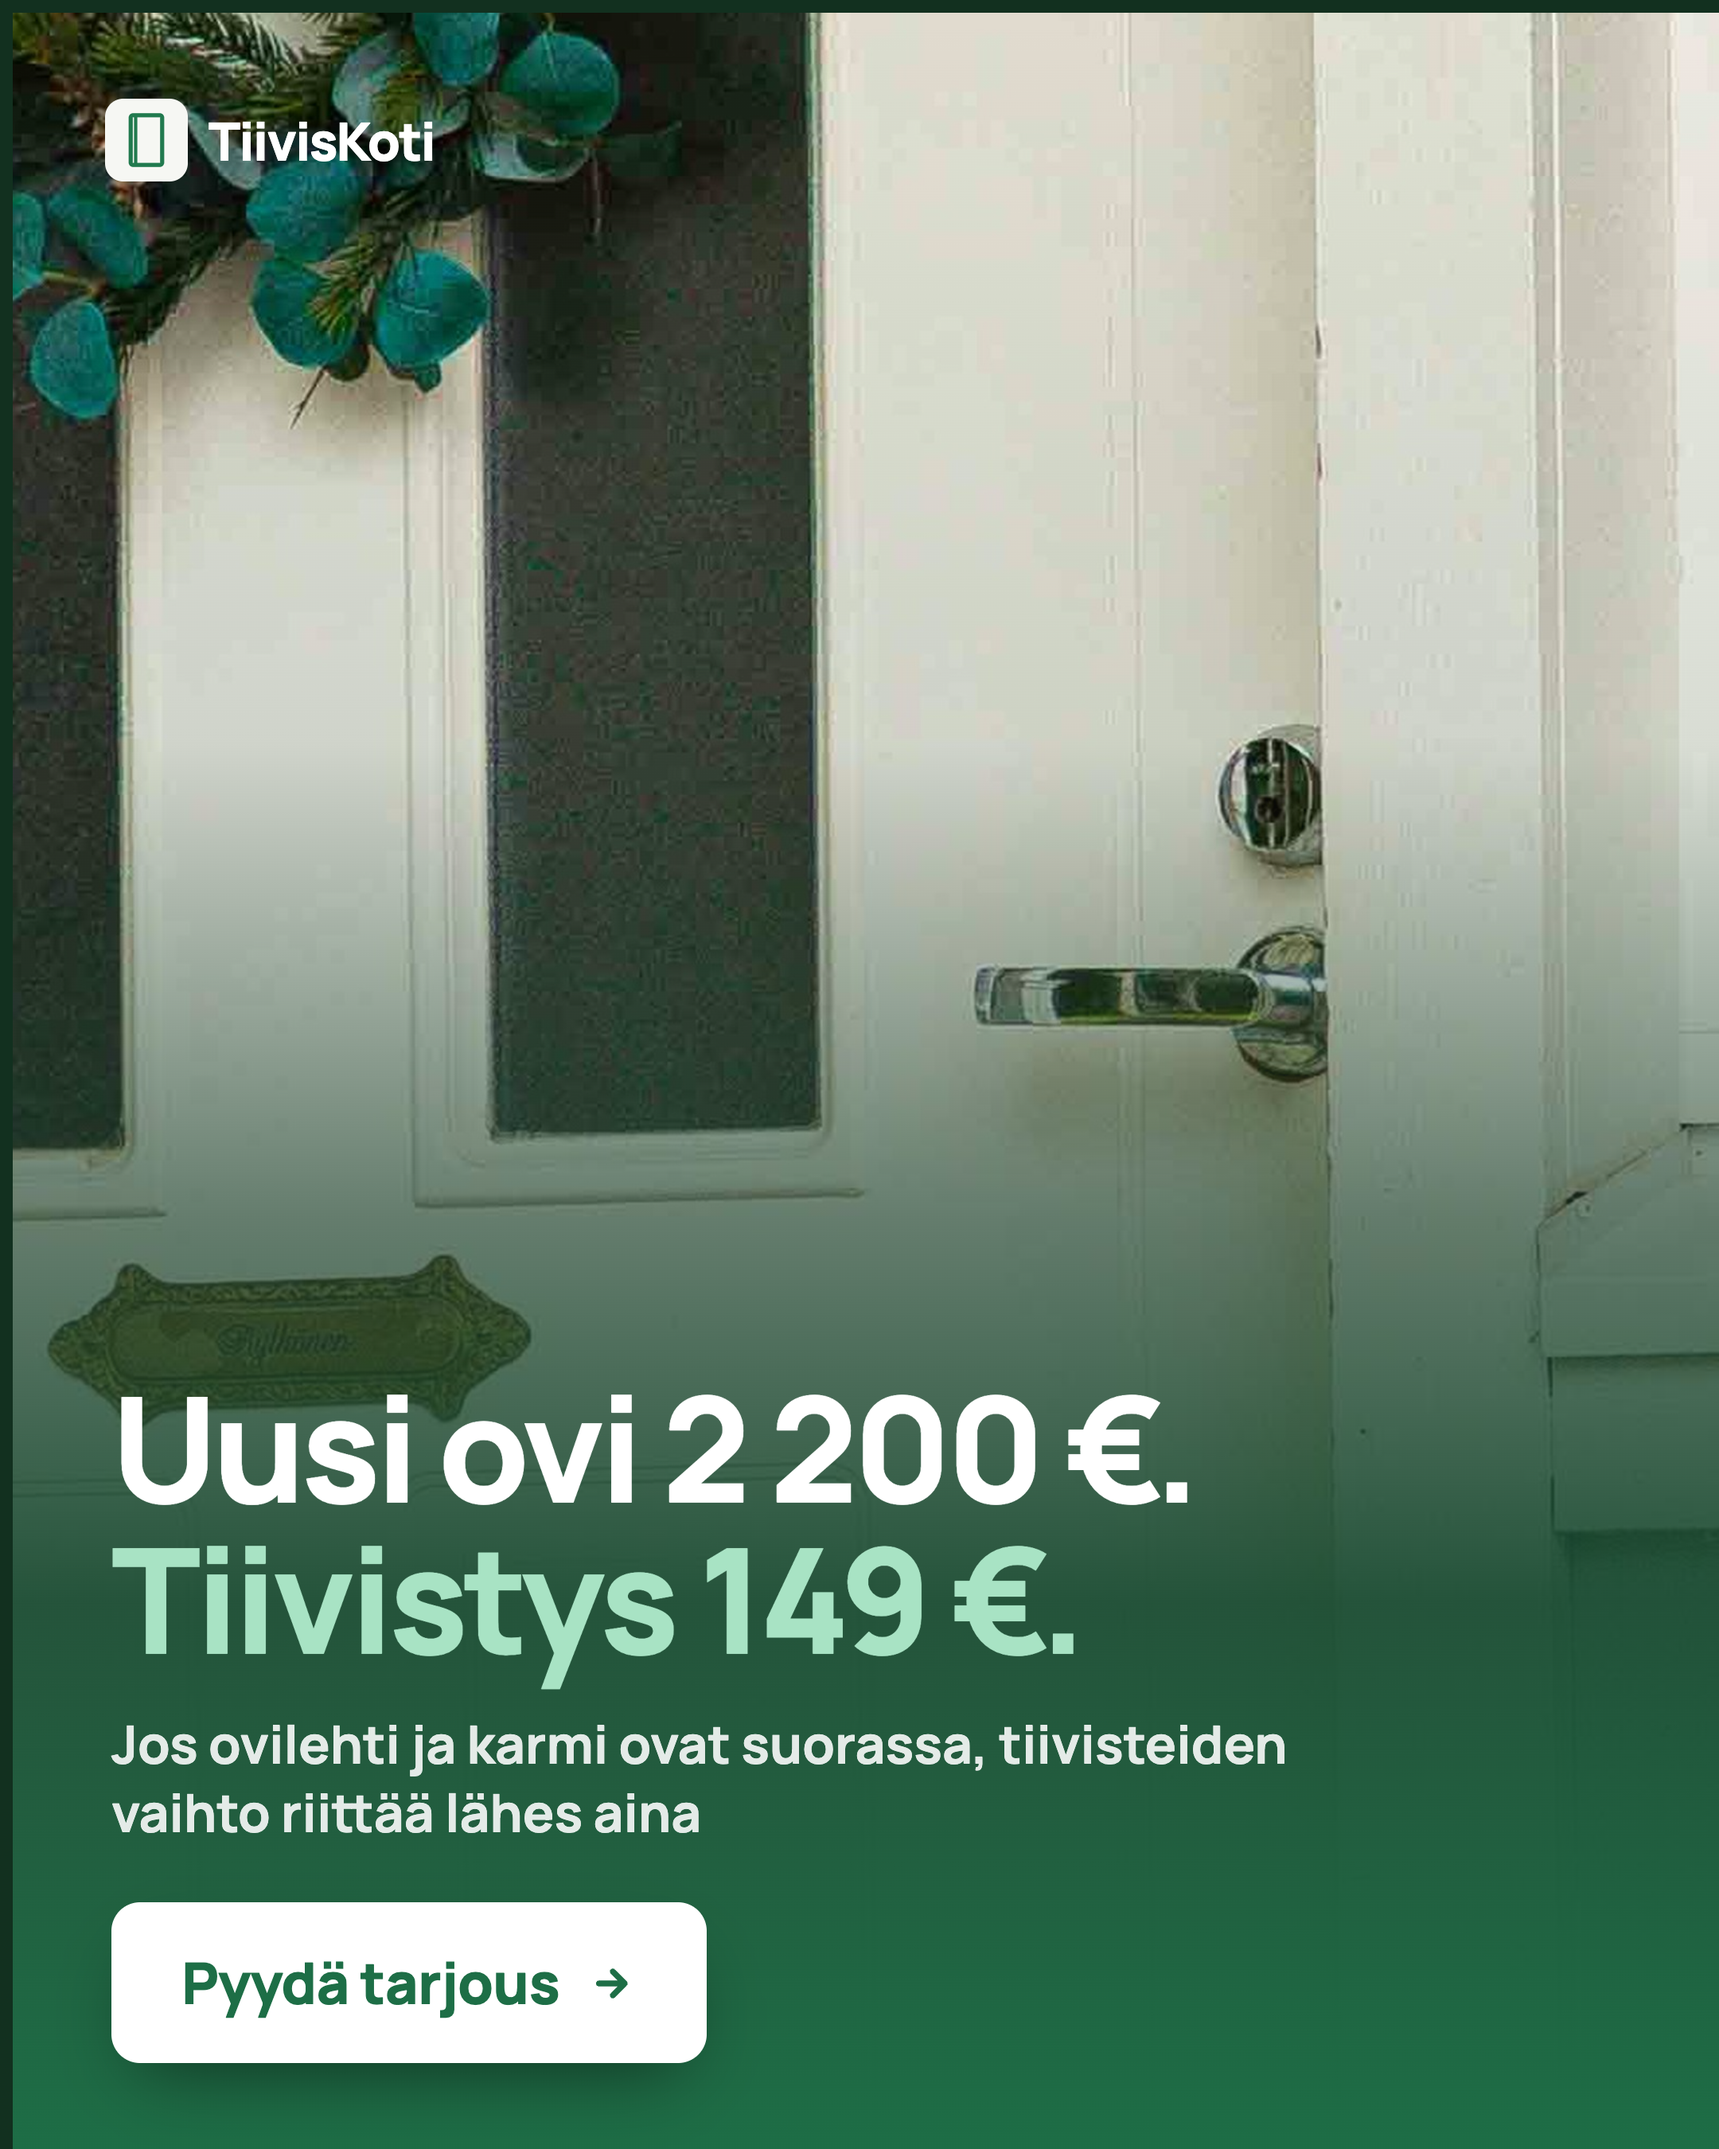
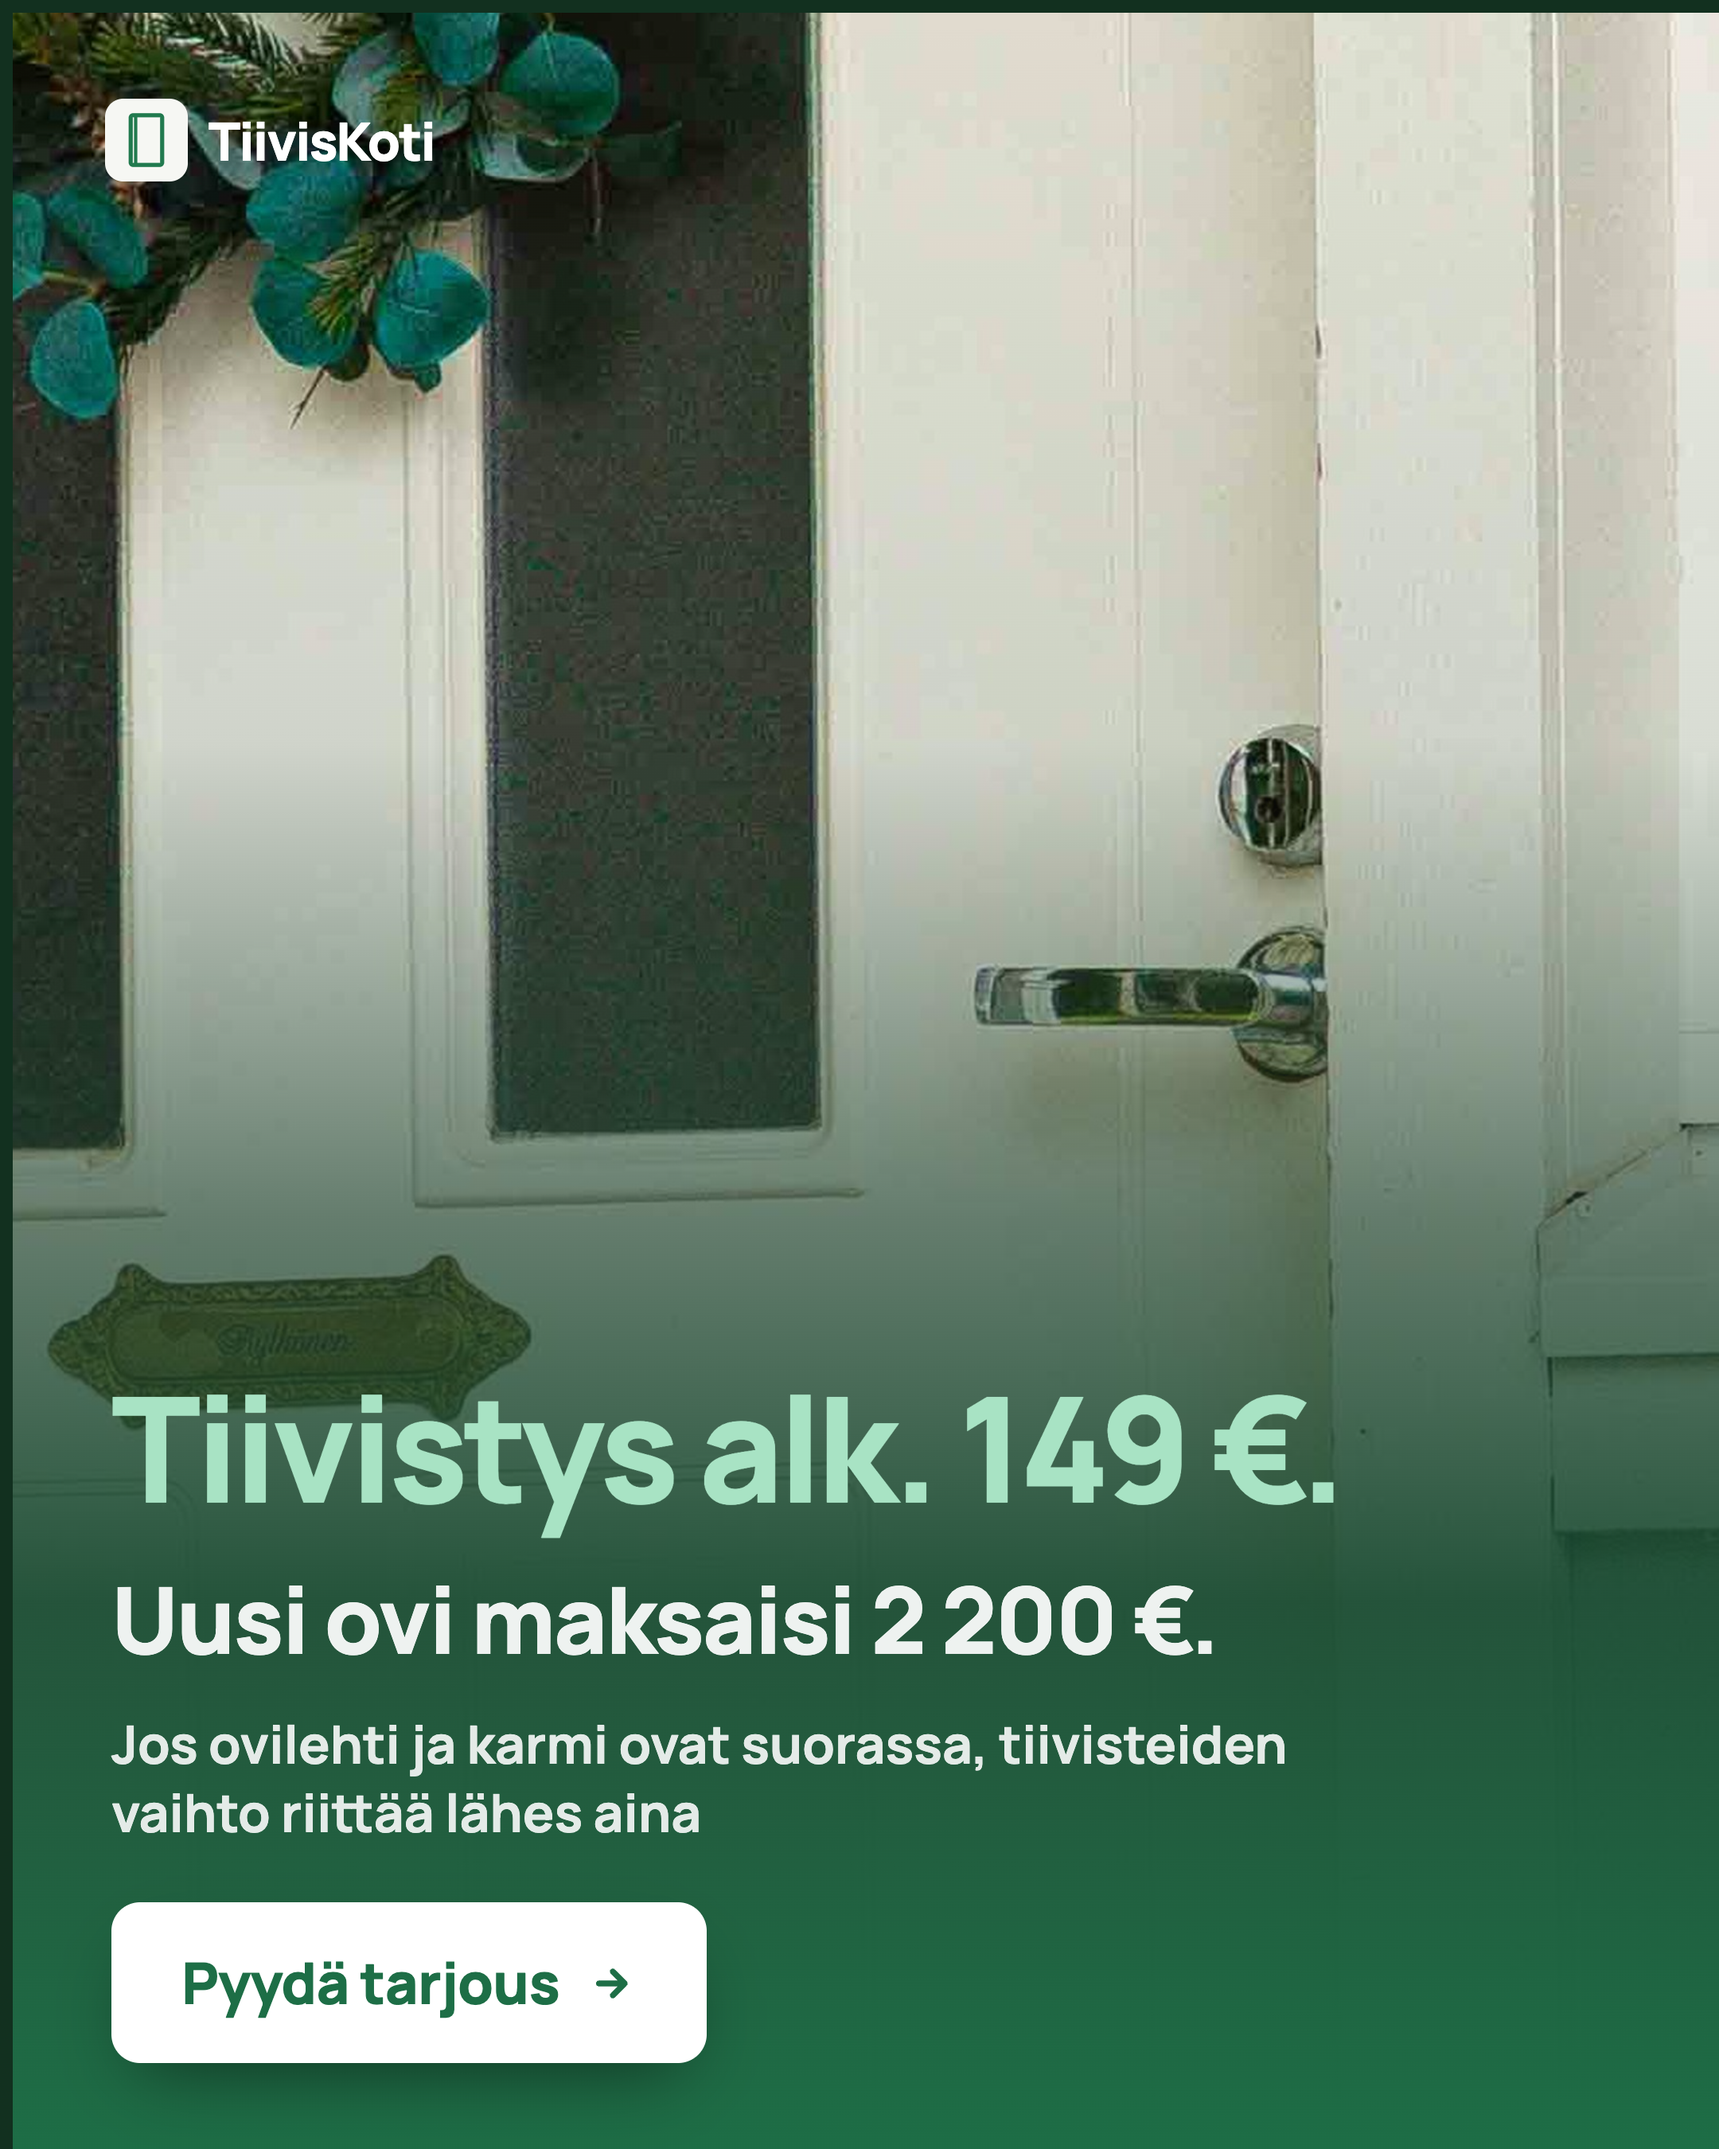
Liidimainosten ankkuri oli vaarin pain: uusi ovi ensin, tiivistys vasta alle
Kuvassa luki isolla valkoisella "Uusi ovi 2 200 €" ja tarjous tuli vasta sen
alapuolella. Feedissa ohi selaava lukee ensin kolme sanaa, ja ne olivat uuden
oven hinta logon vieressa — mainos siis nayttaa silta etta myymme ovien
vaihtoa. Sama koski ikkunamainosta.

Ankkurointi itsessaan toimii (TK33 tuottaa liideja 10,65 €:lla), joten
tekniikkaa ei poisteta vaan jarjestys kaannetaan: tarjous ensin korostettuna,
kallis vaihtoehto alle perusteluksi.

Ankkuriviville oma .anchor-tyyli 58 pikselilla. Kaksi syyta: samankokoisena se
kilpailee tarjouksen kanssa katseesta, ja pidempi teksti "...maksaisi 2 200 €"
olisi 92 pikselilla kiertynyt kahdelle riville.

Ovimainoksessa luki "Tiivistys 149 €" ilman alk.-sanaa. Ulko-ovi on 99 € ja
minimiveloitus 149 €, joten yhden oven keikka on 149 € mutta kahden jo 198 € —
ilman rajausta lupaus on liian tiukka. Nyt alk. on kuvassa, otsikossa ja
leipatekstissa, kuten ikkunamainoksessa jo oli.

Metassa vastaavat muutokset tehty samana paivana: otsikot kaannetty, uudet
kuvat ladattu ja molemmat mainokset osoittavat nyt samaan lyhyeen
liidilomakkeeseen (postinumerokysymys pois molemmista, Josuan paatos).

Changed region(s): [[0.062, 0.6222, 0.7755, 0.8089]]

diff --git a/tiiviskoti/mainokset/_niukka.css b/tiiviskoti/mainokset/_niukka.css
@@ -41,6 +41,13 @@ h1 { margin: 0; font-weight: 800; font-size: 92px; line-height: 1.03;
   letter-spacing: -.035em; color: #fff; }
 h1 .hl { color: #A8E3C4; }
 
+/* Ankkuririvi (kalliin vaihtoehdon hinta) on tarjousta pienempi.
+
+   Ankkuri on perustelu, ei lupaus: jos se on samankokoinen kuin tarjous,
+   ohi selaava lukee ensin sen ja luulee että myymme oven vaihtoa. Pienempi
+   koko pitää myös pidemmän rivin ("...maksaisi 2 200 €") yhdellä rivillä. */
+h1 .anchor { font-size: 58px; letter-spacing: -.02em; color: rgba(255,255,255,.92); }
+
 .sub { margin: 22px 0 0; font-size: 33px; font-weight: 700; line-height: 1.32;
   color: rgba(255,255,255,.88); max-width: 830px; }
 

diff --git a/tiiviskoti/mainokset/mainos-niukka-liidi-ikkuna-ankkuri.html b/tiiviskoti/mainokset/mainos-niukka-liidi-ikkuna-ankkuri.html
@@ -30,7 +30,7 @@
   </div>
 
   <div class="block">
-    <h1>Uusi ikkuna 1 200 €.<br><span class="hl">Tiivistys alk. 149 €.</span></h1>
+    <h1><span class="hl">Tiivistys alk. 149 €.</span><br><span class="anchor">Uusi ikkuna maksaisi 1 200 €.</span></h1>
     <p class="sub">Jos lasi ja karmi ovat ehjät, tiivisteiden vaihto riittää — veto loppuu samalla käynnillä</p>
     <span class="btn">Pyydä tarjous
       <svg viewBox="0 0 24 24" fill="none" stroke-width="3" stroke-linecap="round" stroke-linejoin="round"><path d="M5 12h12M12 6l6 6-6 6"/></svg>

diff --git a/tiiviskoti/mainokset/mainos-niukka-liidi-korjaa.html b/tiiviskoti/mainokset/mainos-niukka-liidi-korjaa.html
@@ -26,7 +26,7 @@
   </div>
 
   <div class="block">
-    <h1>Uusi ovi 2 200 €.<br><span class="hl">Tiivistys 149 €.</span></h1>
+    <h1><span class="hl">Tiivistys alk. 149 €.</span><br><span class="anchor">Uusi ovi maksaisi 2 200 €.</span></h1>
     <p class="sub">Jos ovilehti ja karmi ovat suorassa, tiivisteiden vaihto riittää lähes aina</p>
     <span class="btn">Pyydä tarjous
       <svg viewBox="0 0 24 24" fill="none" stroke-width="3" stroke-linecap="round" stroke-linejoin="round"><path d="M5 12h12M12 6l6 6-6 6"/></svg>
